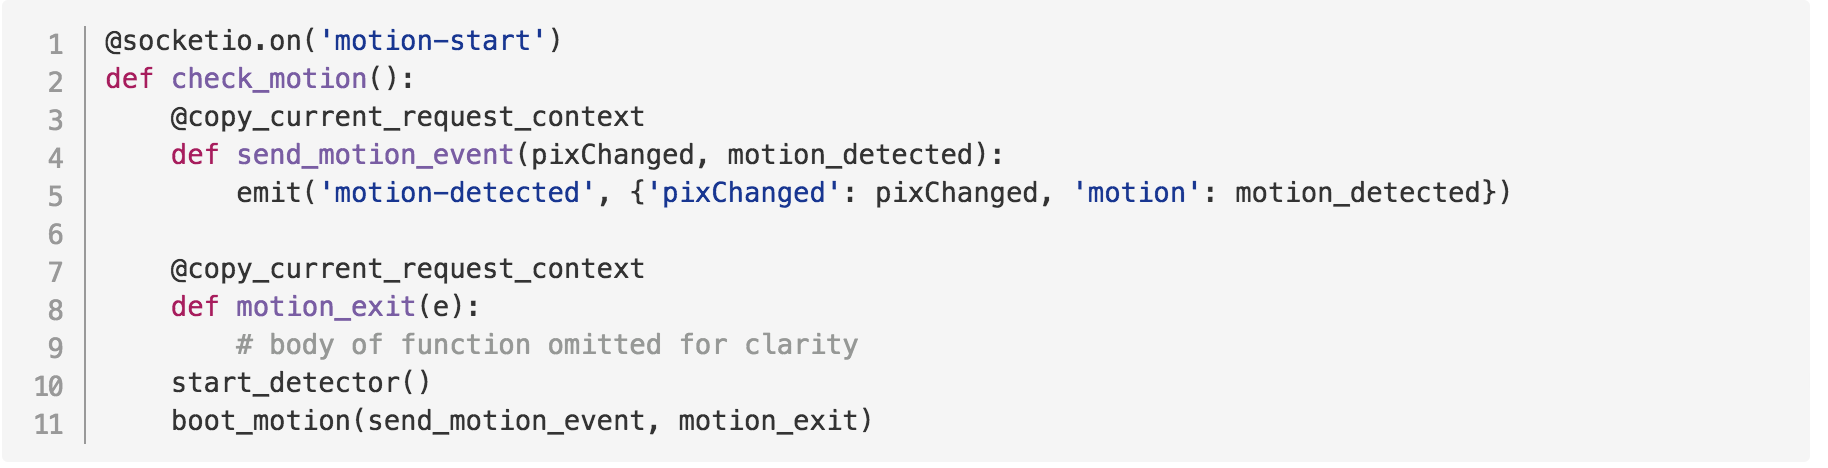
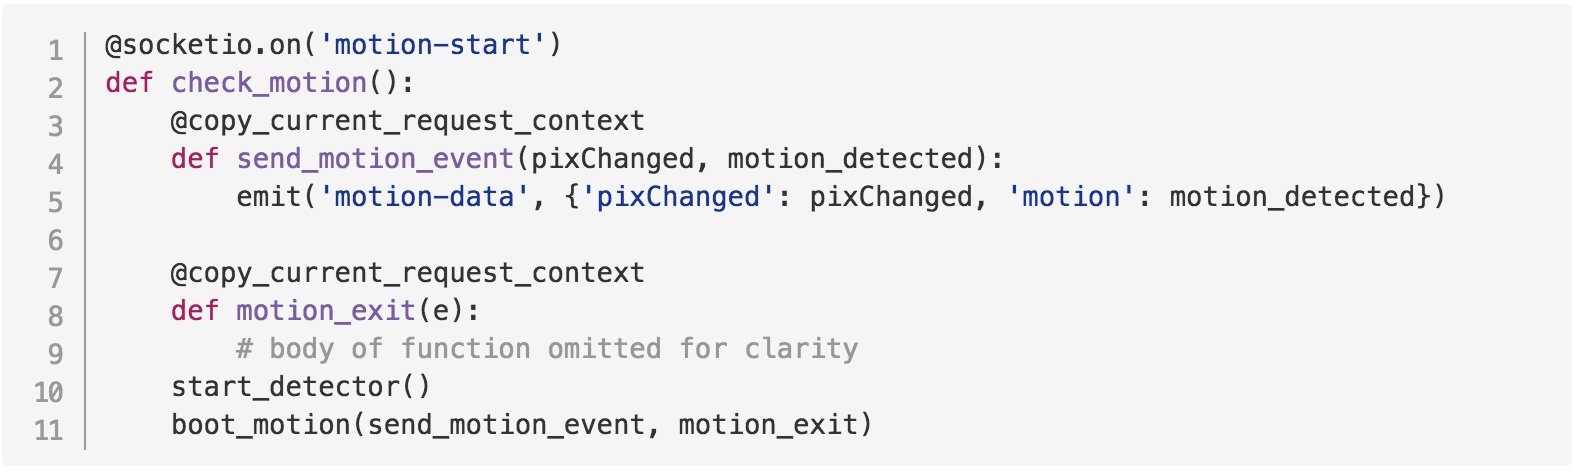
Rename motion-detected event to motion-data

diff --git a/app/static/js/containers/App/index.jsx b/app/static/js/containers/App/index.jsx
@@ -41,7 +41,7 @@ export default class App extends Component {
       this.setState({ motionDetection: true })
     })
     socket.on('motion response', data => console.log(data))
-    socket.on('motion-detected', data => {
+    socket.on('motion-data', data => {
       console.log(data)
       this.setState({ detectionData: data })
     })

diff --git a/server/server.py b/server/server.py
@@ -30,7 +30,7 @@ def take_picture():
 def check_motion():
     @copy_current_request_context
     def send_motion_event(pixChanged, motion_detected):
-        emit('motion-detected', {'pixChanged': pixChanged, 'motion': motion_detected})
+        emit('motion-data', {'pixChanged': pixChanged, 'motion': motion_detected})
 
     @copy_current_request_context
     def motion_exit(e):

diff --git a/docs/part2.md b/docs/part2.md
@@ -75,7 +75,7 @@ We can see an example of this communication by examining the code  excerpted bel
 
 When the web app emits the 'motion-start' event (line 1), the Pi will take certain actions, like calling the function `start_detector()` and `boot_motion()` (lines 10 and 11 in the example below).
 
-When the function `send_motion_event` (line 4) is called, the Pi emits a message of its own back to the web app (line 5), sending a ```"motion-detected"``` message with some data for the web app to display.
+When the function `send_motion_event` (line 4) is called, the Pi emits a message of its own back to the web app (line 5), sending a ```"motion-data"``` message with some data for the web app to display.
 
 **Code Example 2:**
 _from PiMotions/server/server.py_:
@@ -112,8 +112,7 @@ In `boot_motion`, we take the "send_motion_event" as one of the arguments (**Cod
 _from PiMotions/server/server.py_:
 ![Code Example 3](./images/ex-3.png)
 
-In motion_detector.py (excerpted below in **Code Example 4**), we can see that the first argument to `boot_motion` is a callback (cb). We use that callback in the initialization of our `MotionDetector` class (line 8). At some point (not yet implemented), we'll call that callback, which will then cause the Pi to emit the 'motion-detected' message to the web app with the data it needs (line 5 above in **Code Example 3**)
-
+In motion_detector.py (excerpted below in **Code Example 4**), we can see that the first argument to `boot_motion` is a callback (cb). We use that callback in the initialization of our `MotionDetector` class (line 8). At some point (not yet implemented), we'll call that callback, which will then cause the Pi to emit the 'motion-data' message to the web app with the data it needs (line 5 above in **Code Example 3**)
 
 **Code Example 4:**
 _from PiMotions/server/motion-detector.py_:
